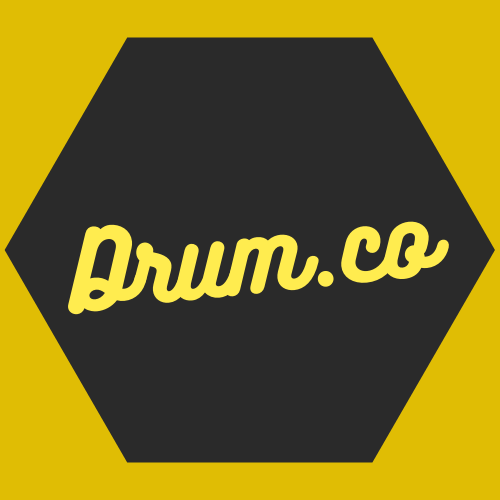
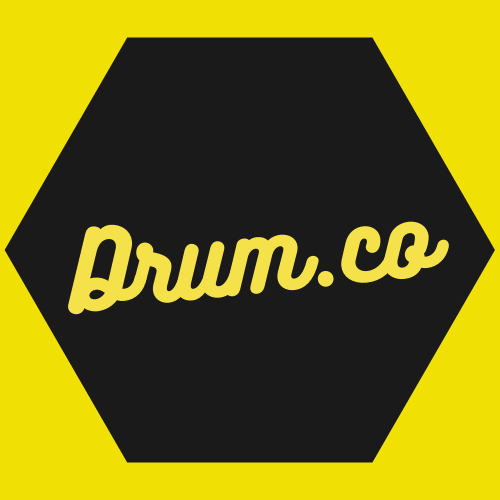
1. Modify color palet 2. Begin to style <main> 3. Begin to style <footer> 4. Formatting landing.html

diff --git a/landing.html b/landing.html
@@ -2,14 +2,20 @@
 <html lang="en">
   <head>
     <meta charset="utf-8" />
-    <title>My Compagny</title>
+    <title>Welcome to Drum.co !</title>
     <link rel="stylesheet" href="landing.css" />
   </head>
 
   <body>
     <header id="header">
       <div id="logo-name">
-        <img id="header-img" src="img/Drumco.png" alt="Logo My Compagny" width="100" height="100">
+        <img
+          id="header-img"
+          src="img/Drumco.png"
+          alt="Logo My Compagny"
+          width="100"
+          height="100"
+        />
       </div>
       <h1>Drum.co</h1>
       <nav id="nav-bar">
@@ -24,7 +30,7 @@
     <main>
       <form id="form">
         <label for="email">
-          <input type="email" id="email" placeholder="my.email@example.com"/>
+          <input type="email" id="email" placeholder="my.email@example.com" />
           <button id="sendEmail">Send</button>
         </label>
       </form>
@@ -34,20 +40,26 @@
         <h2>Always have fun !</h2>
       </section>
       <div id="video">
-          <iframe width="739" height="416" src="https://www.youtube.com/embed/et9hU7QMDYU" frameborder="0" allow="accelerometer; autoplay; encrypted-media; gyroscope; picture-in-picture" allowfullscreen></iframe>
-      </div> 
-      <section id="products">
-      </section>
+        <iframe
+          width="650"
+          height="350"
+          src="https://www.youtube.com/embed/et9hU7QMDYU"
+          frameborder="0"
+          allow="accelerometer; autoplay; encrypted-media; gyroscope; picture-in-picture"
+          allowfullscreen
+        ></iframe>
+      </div>
+      <section id="products"></section>
     </main>
 
     <footer id="footer">
       <ul id="disclaimer">
-      <li>Privacy</li>
-      <li>Terms</li>  
-      
+        <a href="#"><li>Privacy</li></a>
+        <a href="#"><li>Terms</li></a>
+      </ul>
+
       <p>Copyright 2020, Mathieu D.</p>
     </footer>
     <script src=""></script>
   </body>
 </html>
-

diff --git a/landing.css b/landing.css
@@ -1,5 +1,9 @@
-/*#e0bd04 -> orange */
-/*#2a2a2a -> dark gray */
+/* #f0e004 -> (orange) header */
+/* #1a1a1a -> (dark gray) text */
+/* #5d737e -> link */
+/* #87bba2 -> clicked link */
+/* #f0f7ee -> background */
+/* #f5e24b -> text in logo */
 
 @font-face {
   font-family: "Bukhari Script";
@@ -11,13 +15,17 @@
 body {
   font-family: "Ubuntu", sans-serif;
   margin: 0;
+  background-color: #f0f7ee;
+  color: #1a1a1a;
 }
 
 /* === HEADER === */
 
 h1 {
   font-family: "Bukhari Script";
-  font-size: 52px;
+  font-size: 62px;
+  font-weight: bold;
+  color: #1a1a1a;
 }
 
 header {
@@ -26,17 +34,20 @@ header {
   align-items: center;
   margin: 0;
   padding: 0;
-  background-color: #e0bd04;
+  background-color: #f0e004;
+  color: #1a1a1a;
 }
 
 #logo-name {
   padding-left: 10px;
 }
+
 nav {
   align-self: flex-end;
   margin: 0;
   font-size: 1.2em;
 }
+
 nav ul {
   display: flex;
   justify-content: space-between;
@@ -47,6 +58,44 @@ nav ul {
 
 nav ul a {
   text-decoration: none;
-  color: black;
+  color: #1a1a1a;
   padding: 10px;
+}
+
+/* === BODY === */
+
+main {
+  width: 80%;
+  margin: auto;
+}
+
+#video {
+  margin: auto;
+}
+
+/* === FOOTER === */
+
+#footer {
+  display: flex;
+  flex-flow: column wrap;
+  justify-content: end;
+  align-items: flex-end;
+  margin-top: 10px;
+  height: 100px;
+}
+
+p,
+#disclaimer {
+  margin: 0;
+}
+
+#disclaimer {
+  display: flex;
+  list-style: none;
+  margin-bottom: 5px;
+}
+
+#disclaimer li {
+  padding: 0 5px 0 5px;
+  color: #5d737e;
 }
